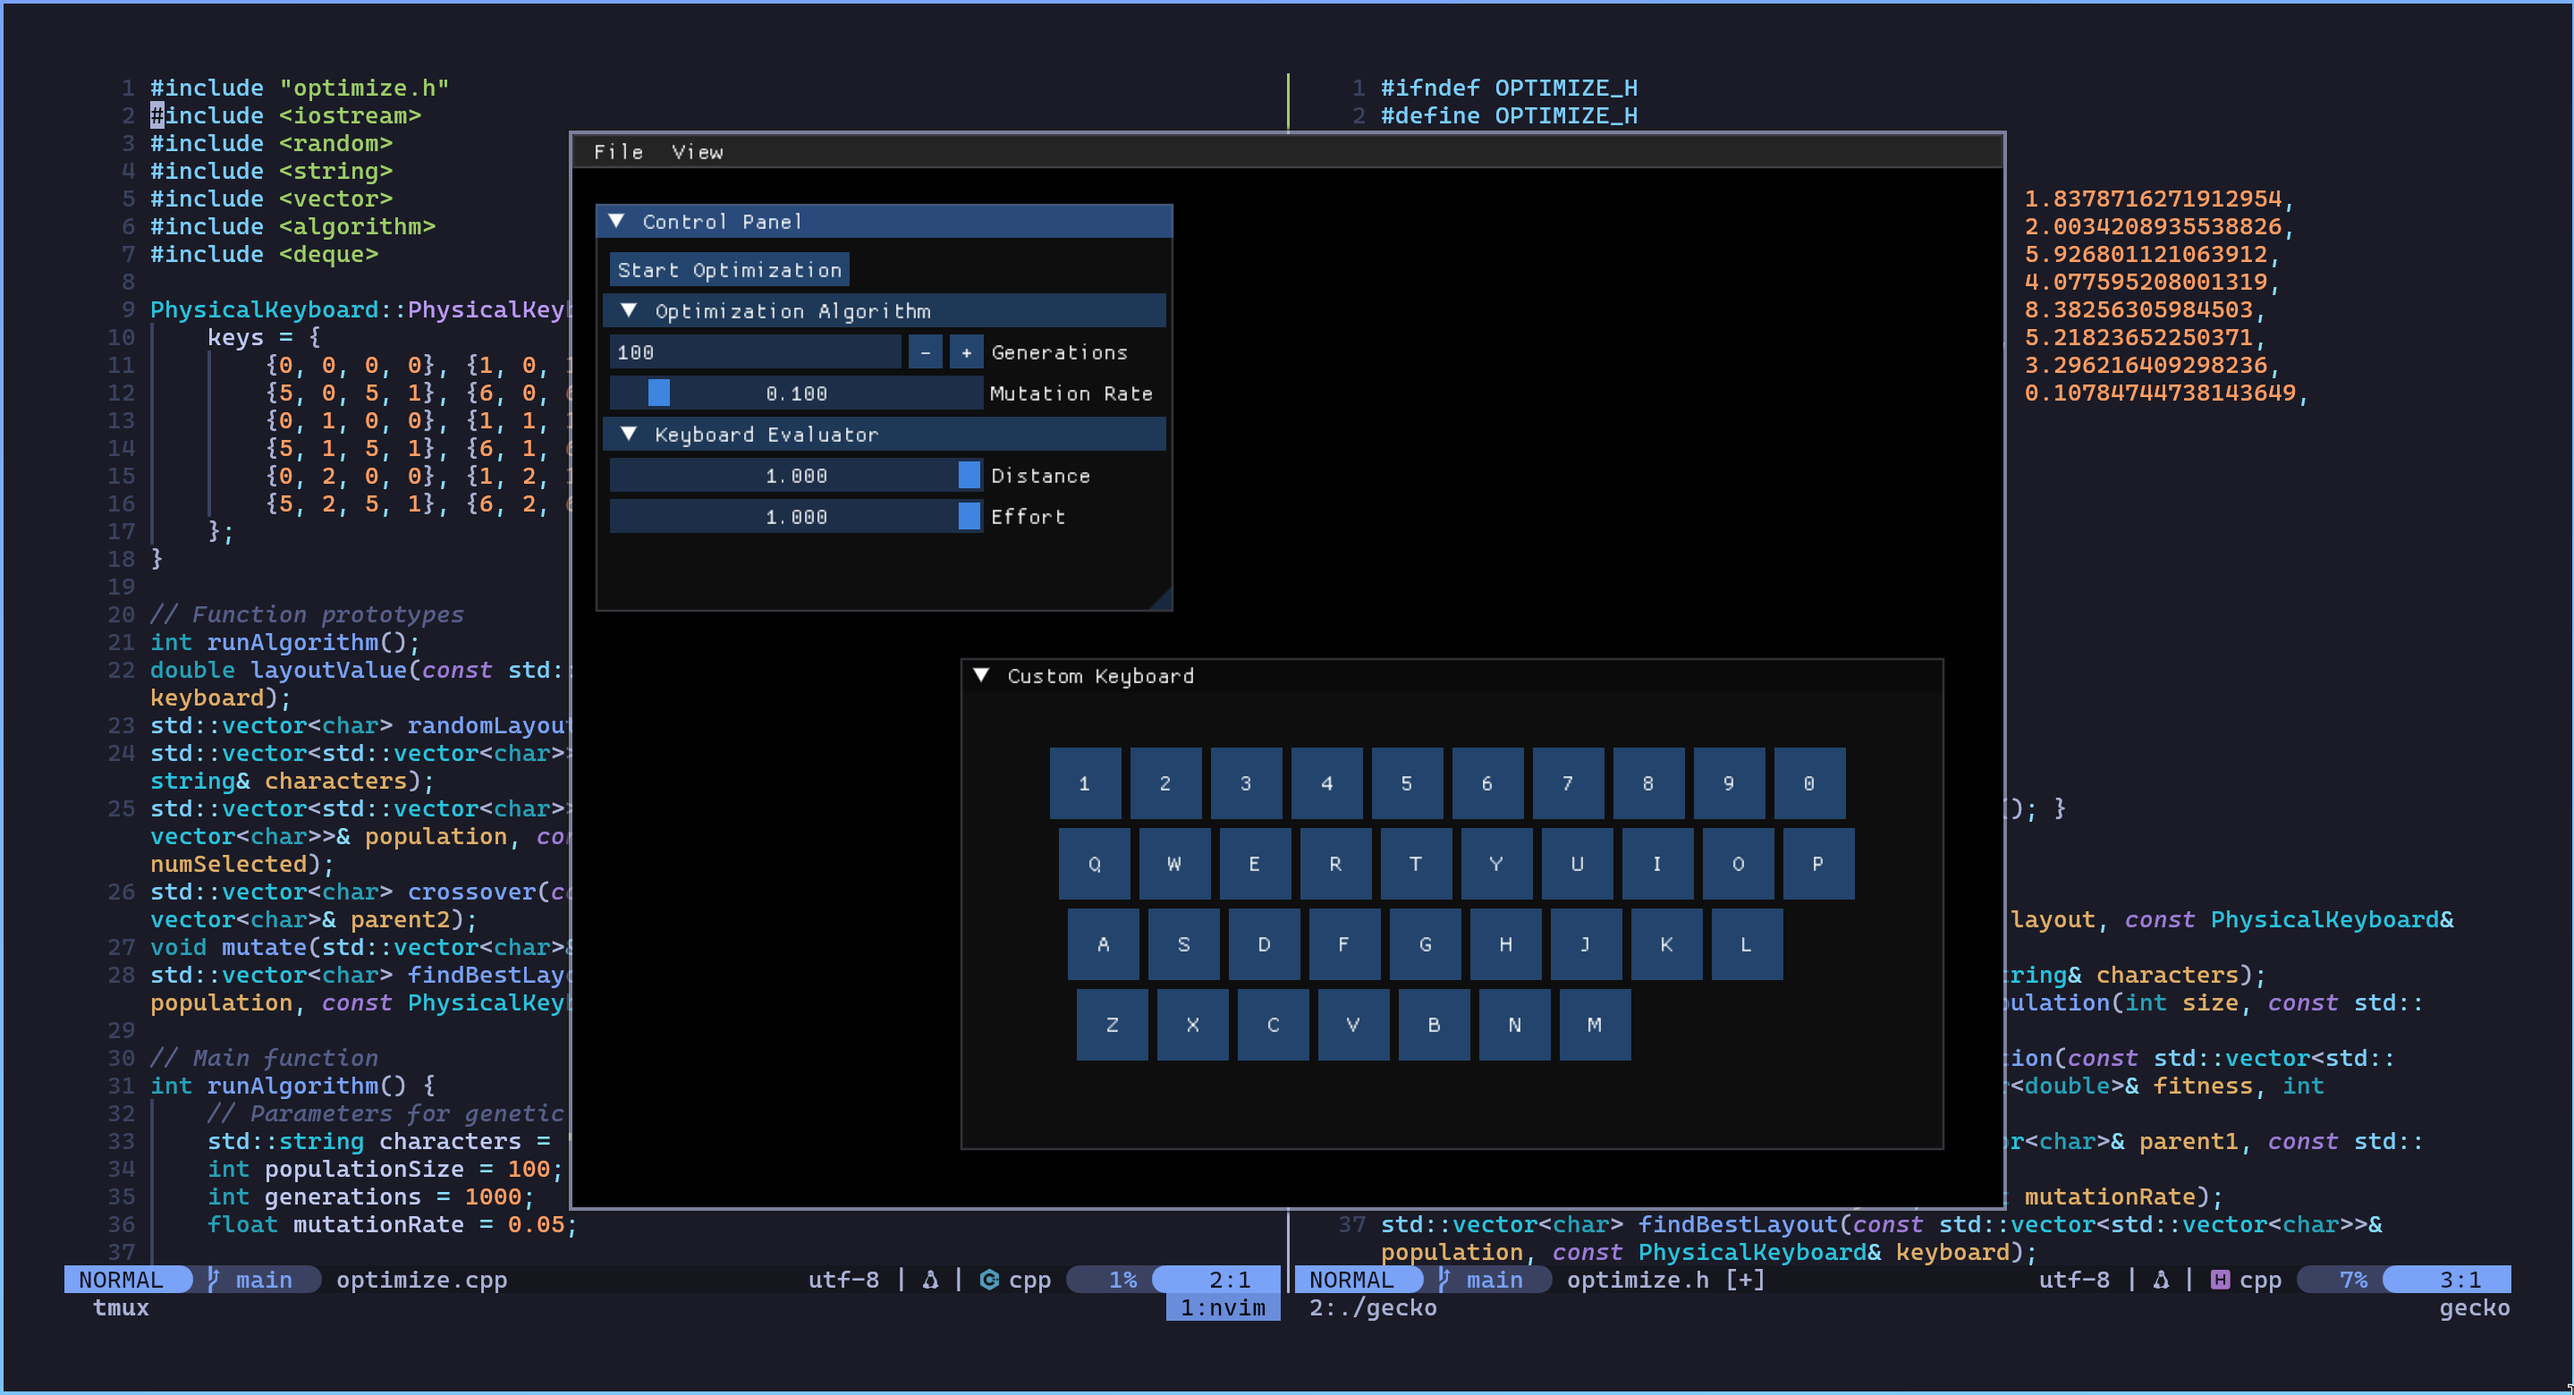
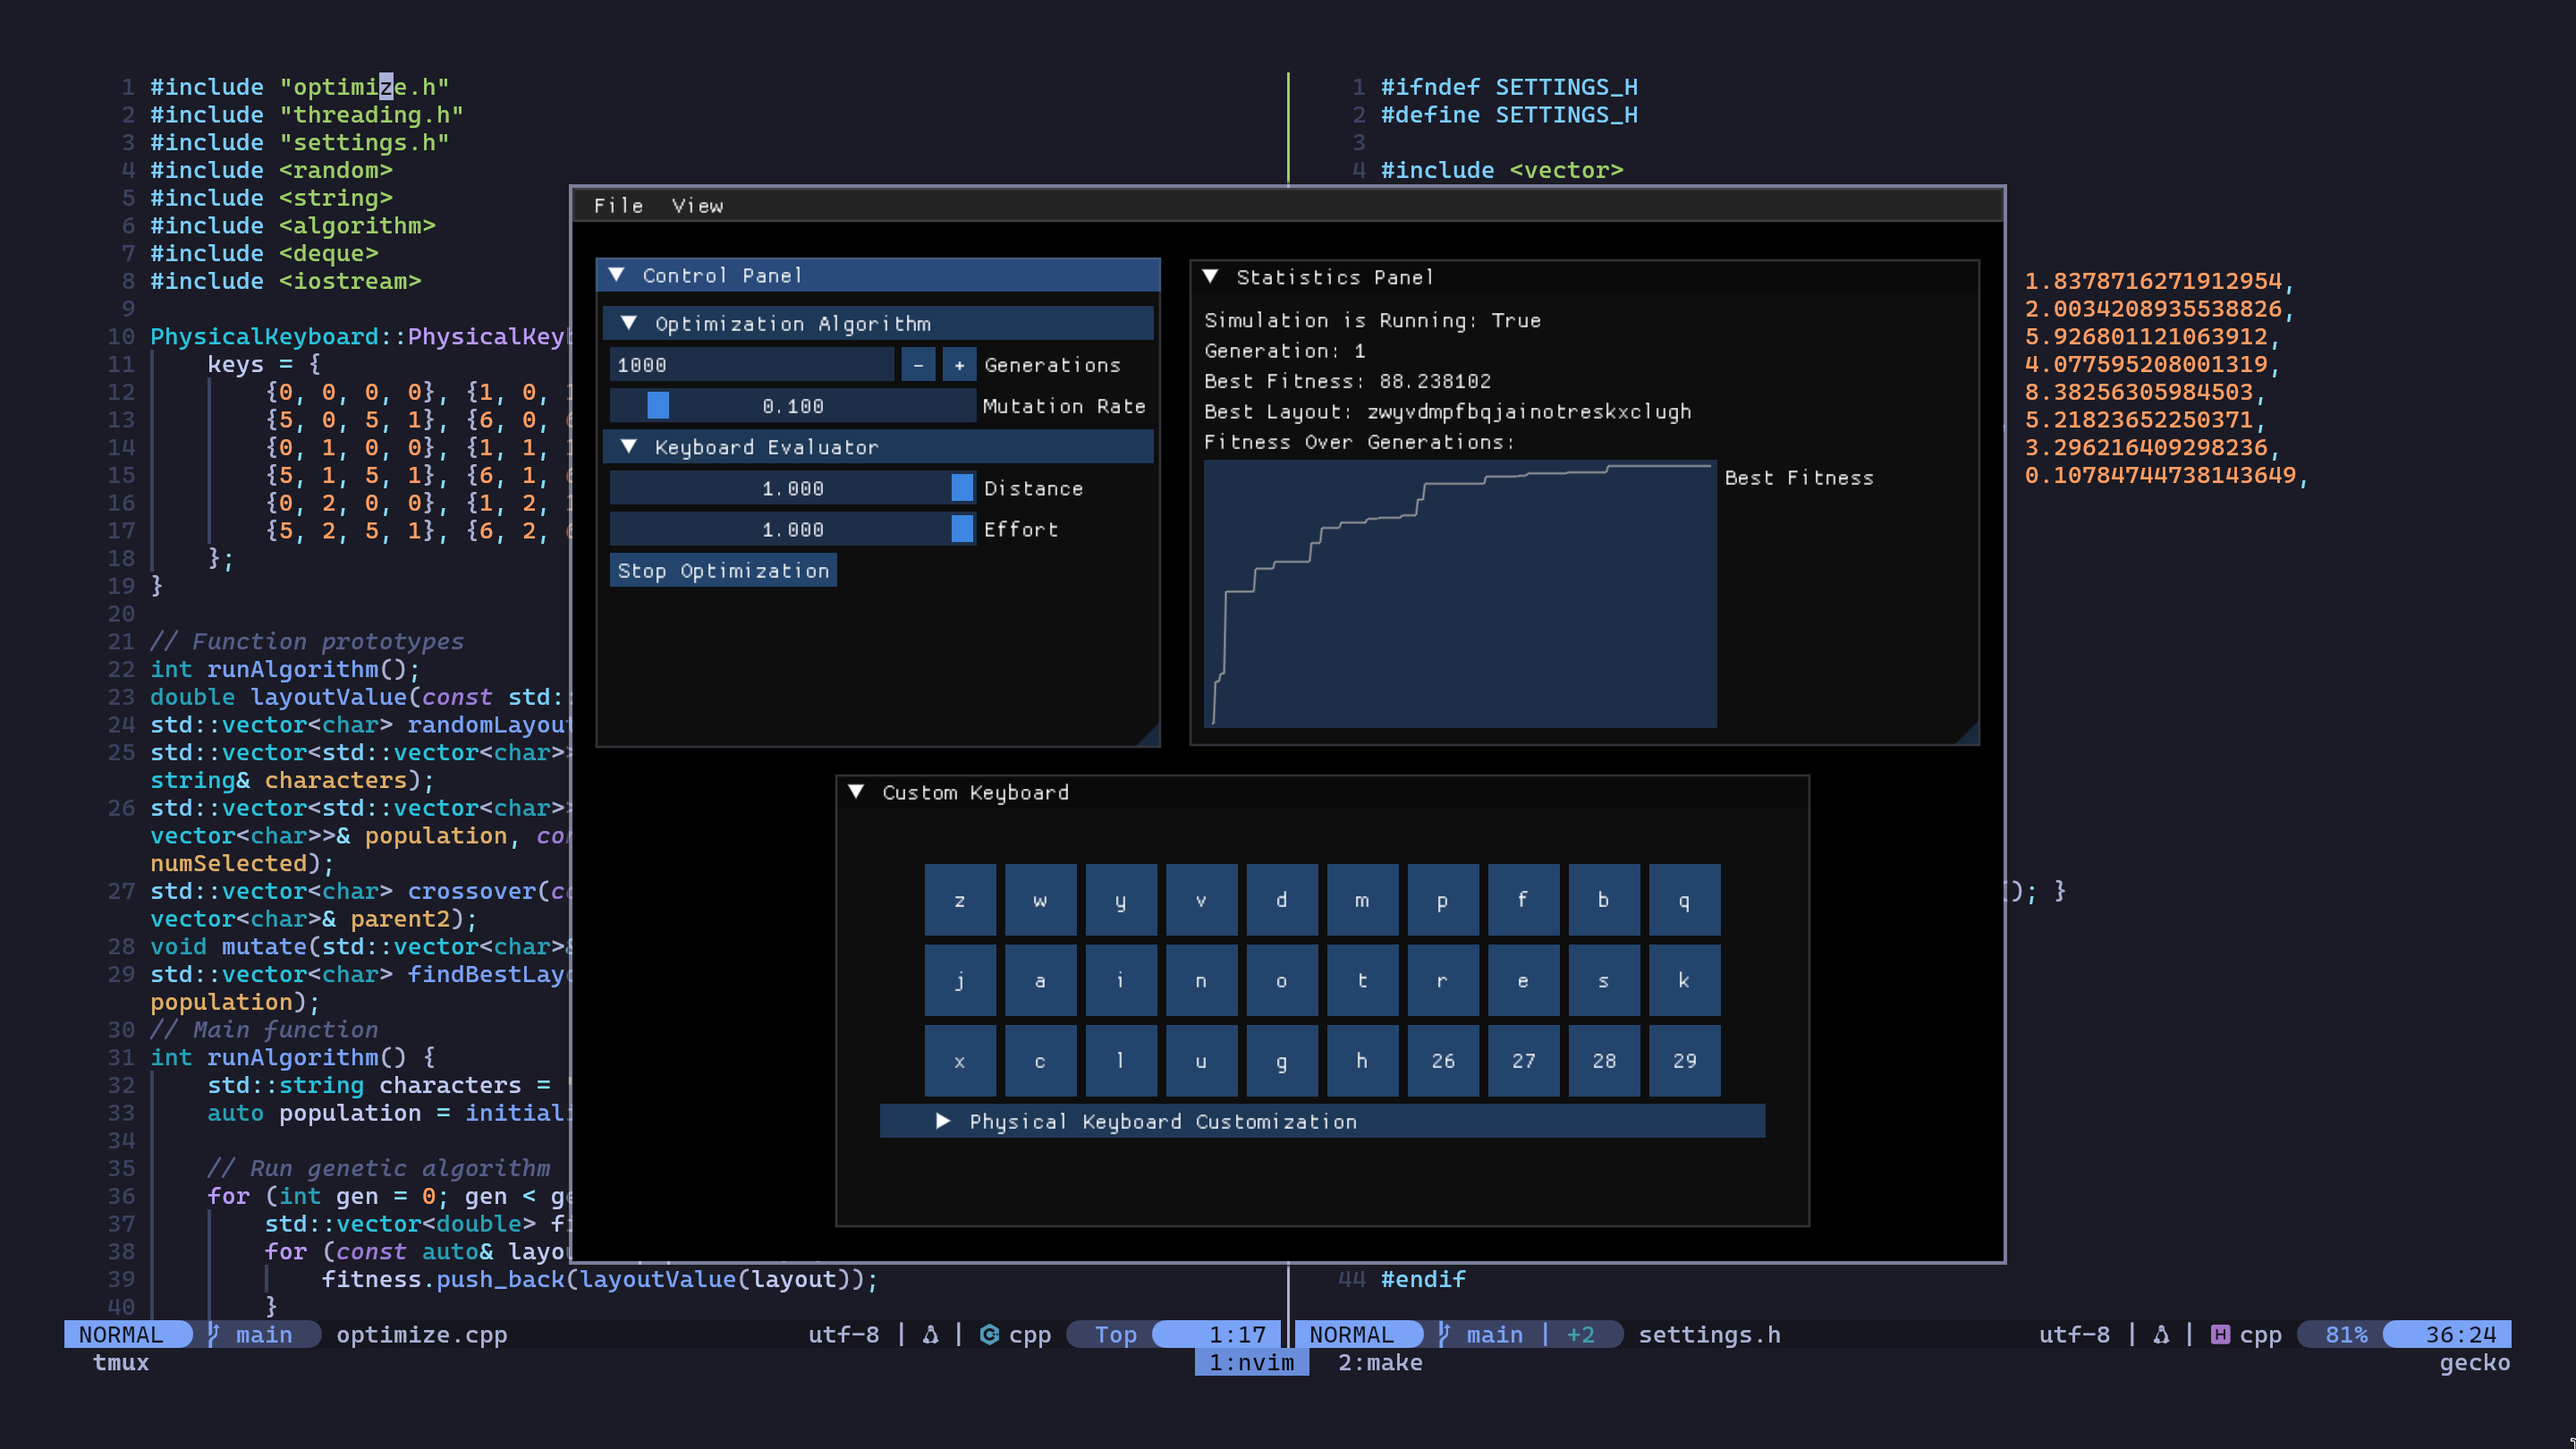
live gui updates during optimization

diff --git a/src/gui.cpp b/src/gui.cpp
@@ -8,13 +8,14 @@
 #include <GL/glew.h>
 #include <GLFW/glfw3.h>
 #include <iostream>
+#include <algorithm>
 
 const int WIDTH = 800, HEIGHT = 600;
 
 // Windows
 static GLFWwindow* window;
 static bool shouldExit = false;
-static bool windowControlPanel = true, windowStatistics = false, windowPhysicalKeyboard = false;
+static bool windowControlPanel = true, windowStatistics = true, windowPhysicalKeyboard = true;
 
 int setupGui();
 int guiLoop();
@@ -178,7 +179,23 @@ void drawStatisticsPanel() {
     else 
 		ImGui::Text("Simulation is Running: False");
 	ImGui::Text(("Generation: " + std::to_string(1)).c_str());
+	ImGui::Text(("Best Fitness: " + std::to_string(bestFitness)).c_str());
 	ImGui::Text(("Best Layout: " + getBestLayout()).c_str());
+
+	// Draw the fitness graph
+	if (!fitnessHistory.empty()) {
+		ImGui::Text("Fitness Over Generations:");
+		ImGui::PlotLines(
+			"Best Fitness",                // Label
+			fitnessHistory.data(),         // Data
+			fitnessHistory.size(),         // Data size
+			0,                             // Offset
+			nullptr,                       // Overlay text
+			fitnessHistory[0],             // Min scale
+			*std::max_element(fitnessHistory.begin(), fitnessHistory.end()), // Max scale
+			ImVec2(0, 150)); // Graph size (width = auto, height = 150px)
+	}
+
 	ImGui::End();
 }
 
@@ -199,9 +216,12 @@ void drawKeyboardPanel() {
 		Key& key = keyboard.keys[i];
 		lowestKeyY = std::min(lowestKeyY, key.y);
 		ImGui::SetCursorPos(ImVec2(key.x * keySpacingX + startX, key.y * keySpacingY + startY));
-		if (ImGui::Button((std::to_string(i)).c_str(), ImVec2(keyWidth, keyHeight))) {
-			std::cout << "Key Pressed" << std::endl;
+		if (i < bestLayout.size()) {
+			char buttonLabel[2] = { bestLayout[i], '\0' };
+			if (ImGui::Button(buttonLabel, ImVec2(keyWidth, keyHeight))) {}
 		}
+		else
+			if (ImGui::Button((std::to_string(i)).c_str(), ImVec2(keyWidth, keyHeight))) {}
 	}
 
 	ImGui::PopStyleVar();

diff --git a/src/optimize.cpp b/src/optimize.cpp
@@ -55,8 +55,9 @@ int runAlgorithm() {
 		// Update the best layout
 		std::vector<char> logBestLayout = findBestLayout(population);
 		updateBestLayout(logBestLayout);
-		double bestFitness = layoutValue(logBestLayout);
-		std::cout << "Best Fitness = " << bestFitness << " | " << std::string(logBestLayout.begin(), logBestLayout.end()) << std::endl;
+		bestFitness = layoutValue(logBestLayout);
+		fitnessHistory.push_back((float) bestFitness);
+		// std::cout << "Best Fitness = " << bestFitness << " | " << std::string(logBestLayout.begin(), logBestLayout.end()) << std::endl;
     }
 
     return 0;
@@ -67,7 +68,7 @@ double layoutValue(const std::vector<char>& layout) {
     double value = 0.0;
     for (size_t i = 0; i < layout.size(); ++i) {
         char c = layout[i];
-        double freq = (0 <= c && c <= 26) ? frequency[c - 'a'] : 0.0;
+		double freq = ('a' <= c && c <= 'z') ? frequency[c - 'a'] : 0.0;
 
         if (keyboard.keys[i].finger == 0 || keyboard.keys[i].finger == 9)
             value -= freq * 2;
@@ -130,16 +131,16 @@ void mutate(std::vector<char>& layout, float mutationRate) {
 }
 
 std::vector<char> findBestLayout(const std::vector<std::vector<char>>& population) {
-    double bestFitness = -1e9;
-	std::vector<char> bestLayoutTracker;
+    double bestFitnessLocal = -1e9;
+	std::vector<char> bestLayoutLocal;
 
     for (const auto& layout : population) {
         double fitness = layoutValue(layout);
-        if (fitness > bestFitness) {
-            bestFitness = fitness;
-            bestLayout = bestLayoutTracker;
+        if (fitness > bestFitnessLocal) {
+            bestFitnessLocal = fitness;
+			bestLayoutLocal = layout;
         }
     }
 
-    return bestLayoutTracker;
+    return bestLayoutLocal;
 }

diff --git a/src/settings.h b/src/settings.h
@@ -32,6 +32,8 @@ public:
 
 extern PhysicalKeyboard keyboard;
 extern std::vector<char> bestLayout;
+extern double bestFitness;
+extern std::vector<float> fitnessHistory;
 
 // Optimization Parameters
 extern int populationSize;

diff --git a/src/main.cpp b/src/main.cpp
@@ -4,6 +4,8 @@
 
 // Global variables
 std::vector<char> bestLayout;
+double bestFitness;
+std::vector<float> fitnessHistory;
 PhysicalKeyboard keyboard;
 
 // Optimization Variables
